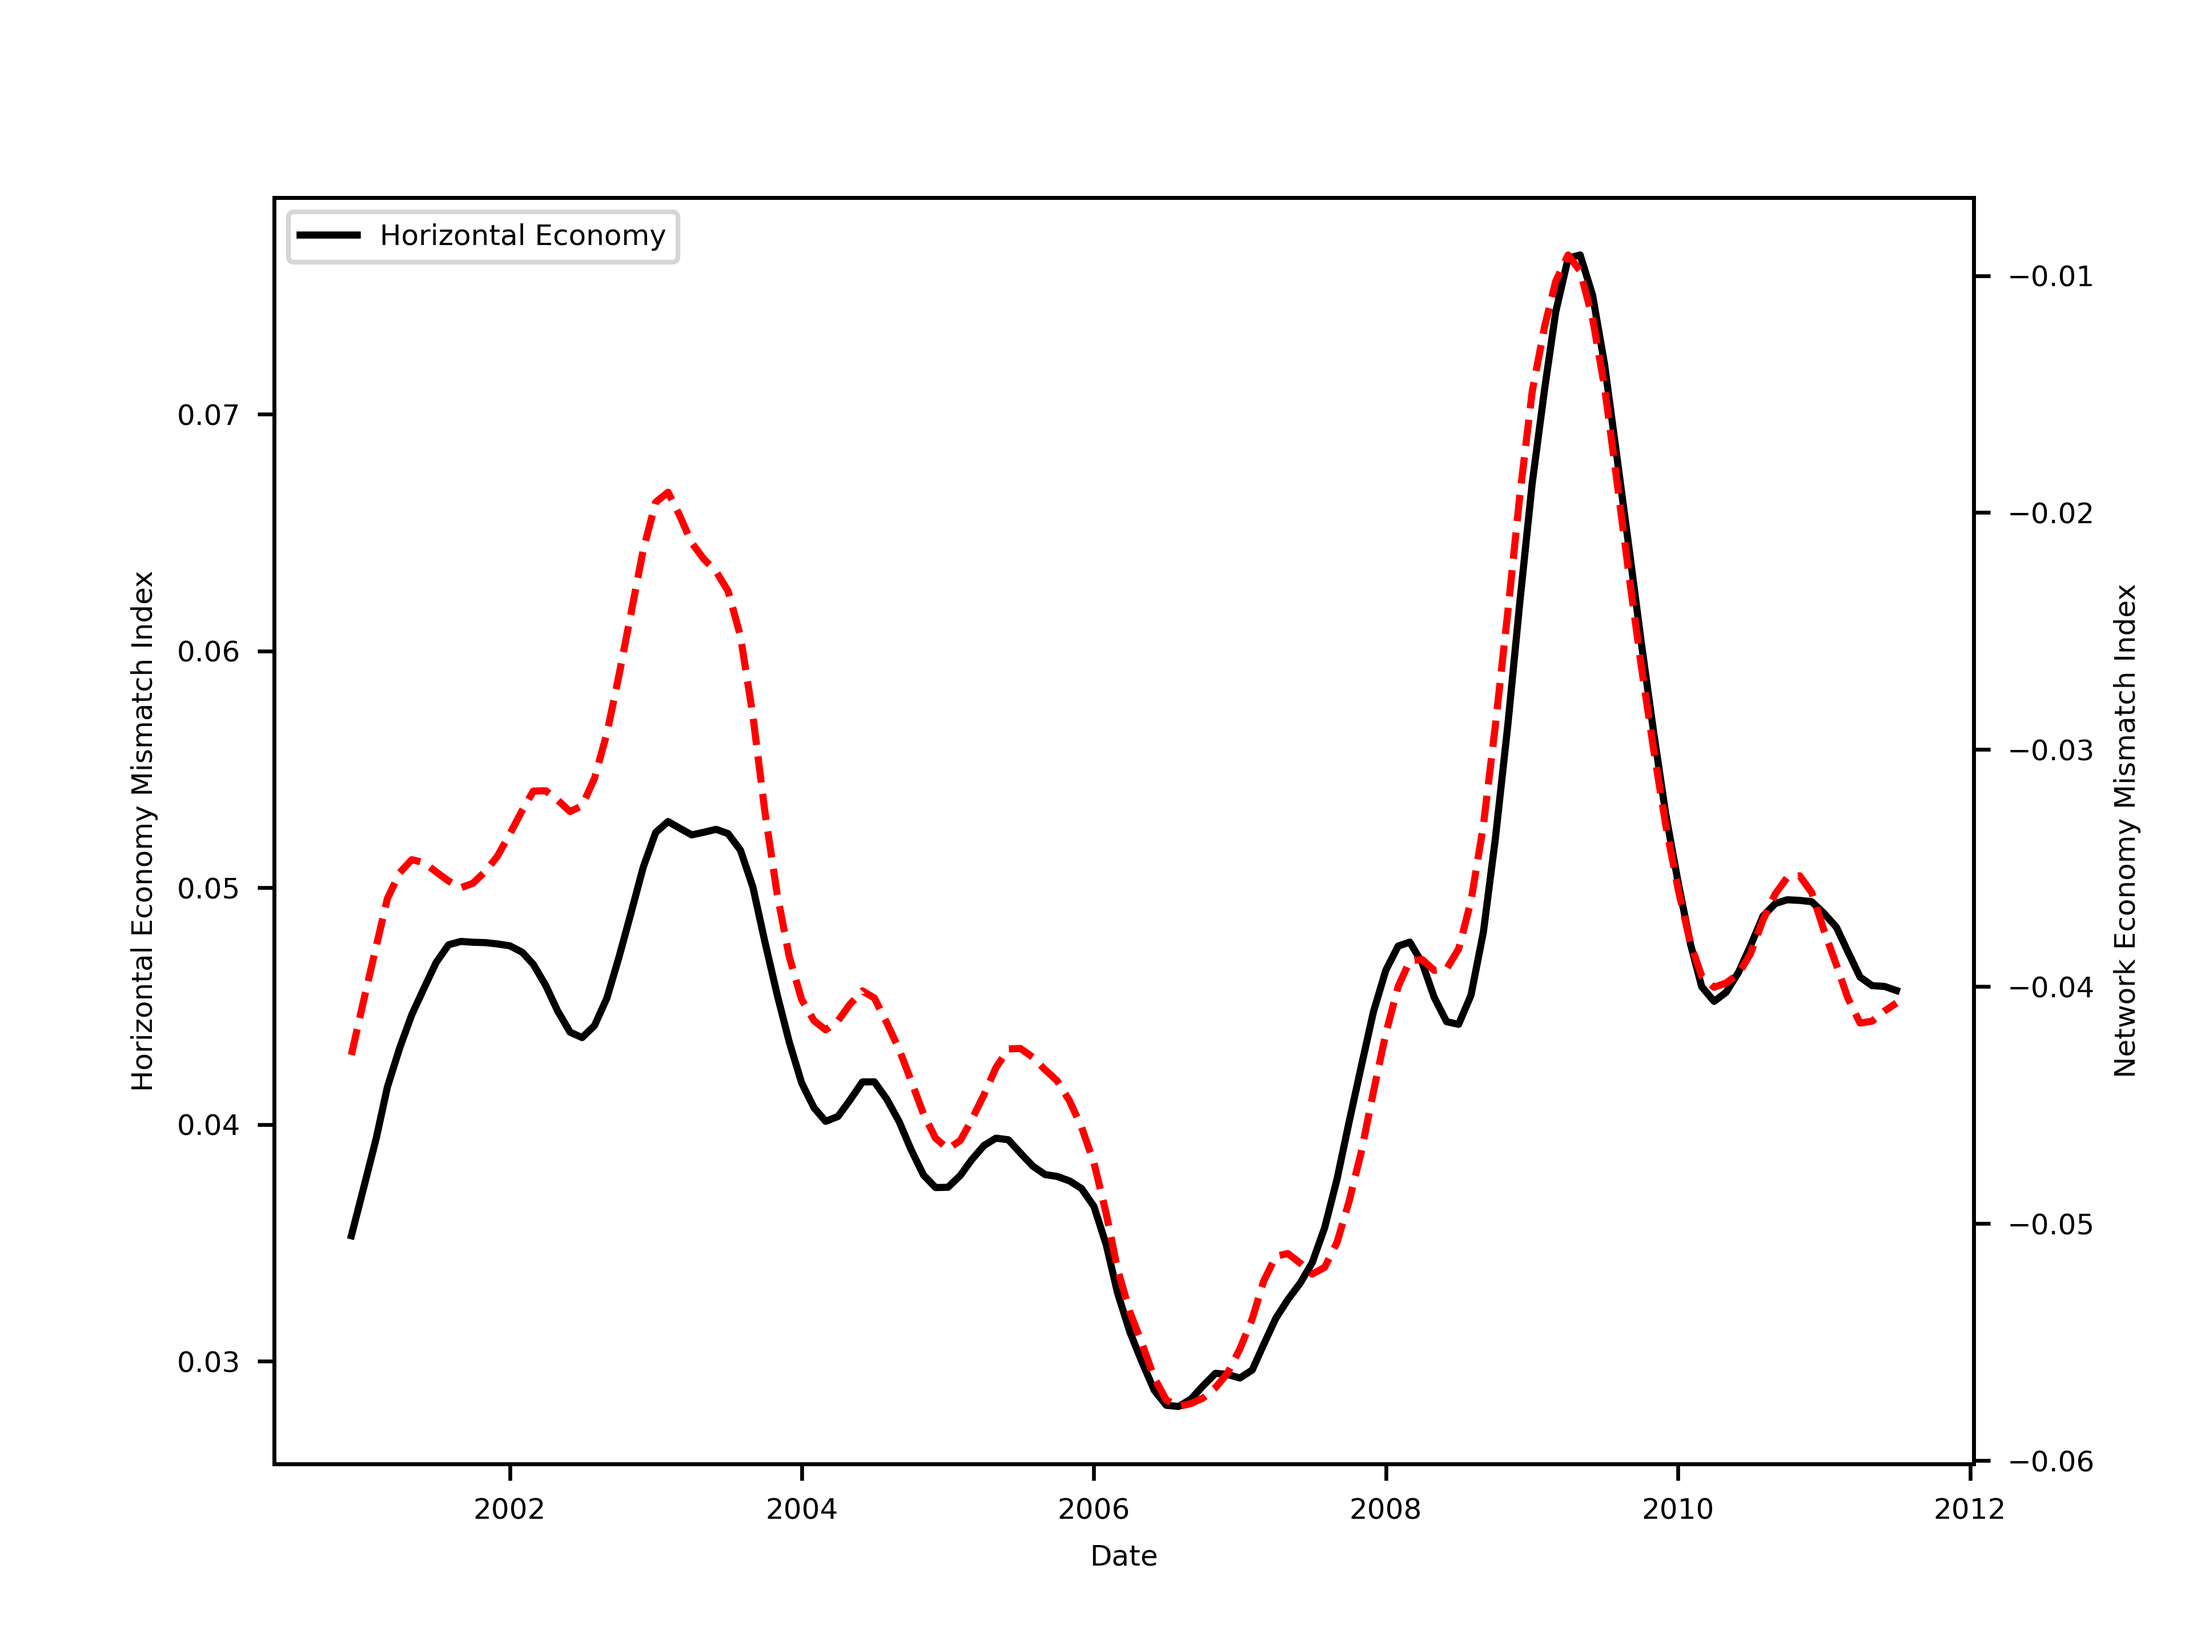
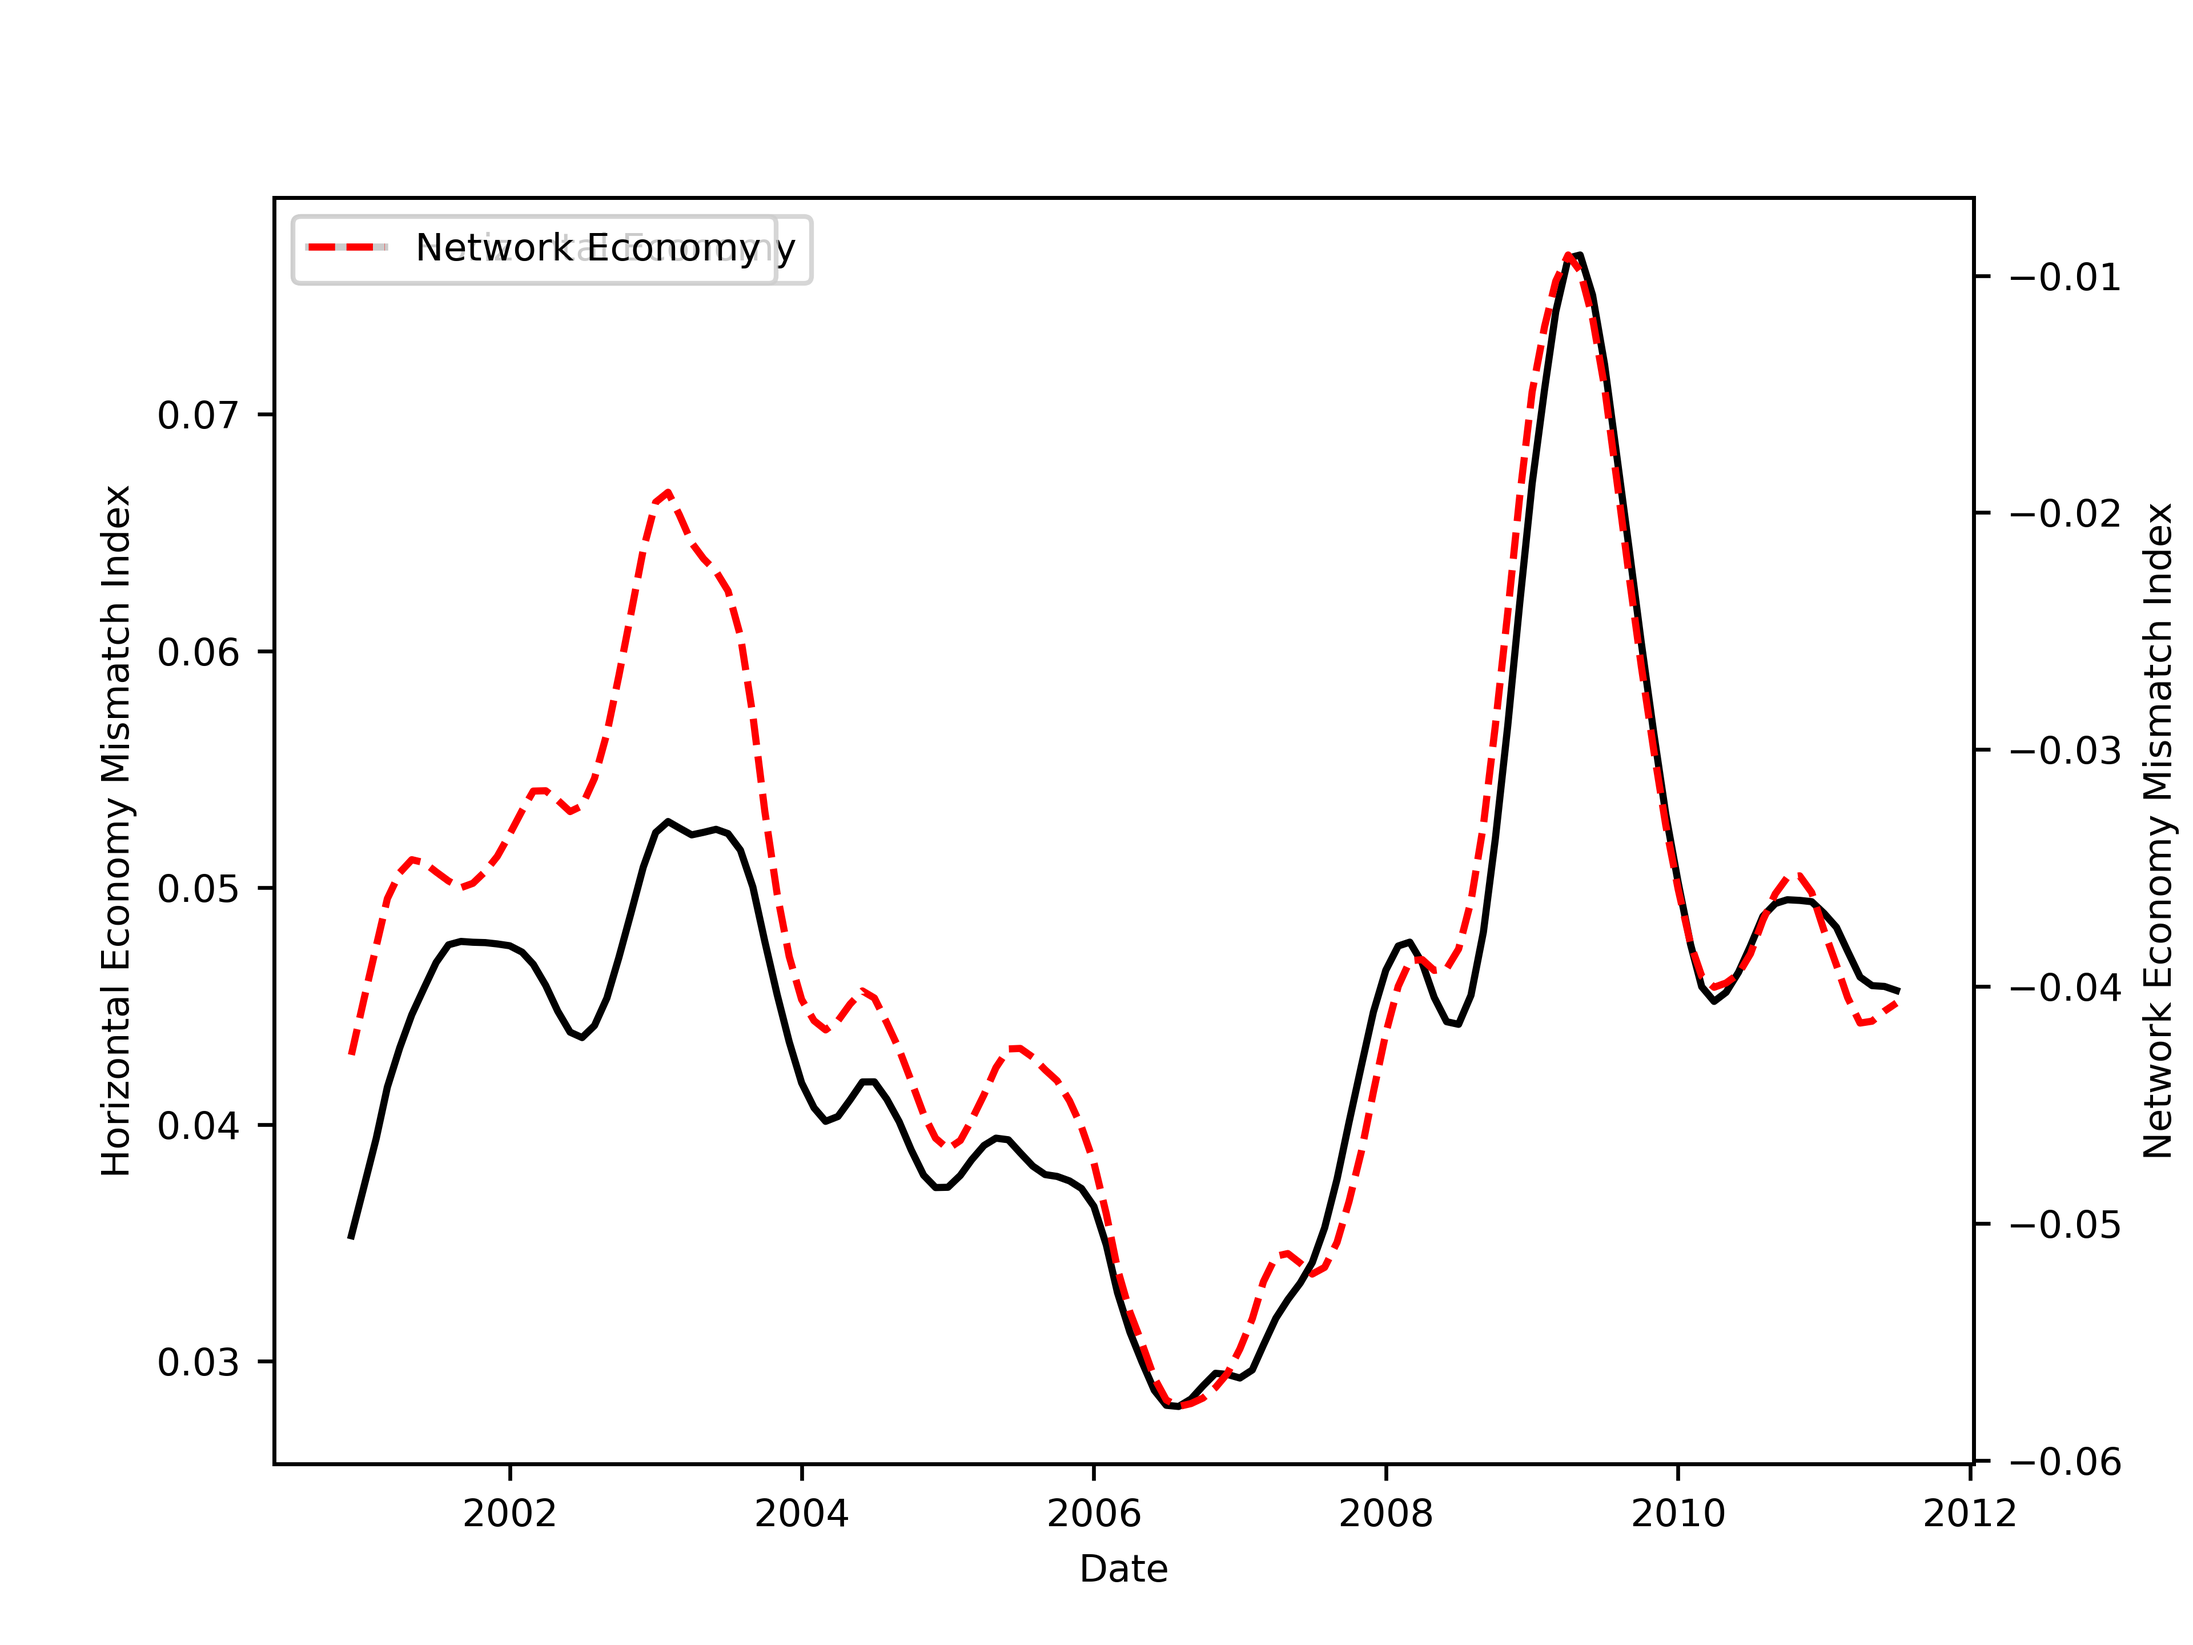
some new figures and code adjustments

diff --git a/code/functions/optimal_unemployment.py b/code/functions/optimal_unemployment.py
@@ -173,43 +173,38 @@ class mismatch_estimation:
         plt.savefig(self.param['outpath'] + fname + '_sectoral_mismatch_index.png')
 
         #scatter plots of lambda, alpha,lambda*alpha, e with v, phi
-        self.v_scatter, ax = plt.subplots(2,2,dpi=dpi)
-        plt.rcParams['font.size'] = '6'
-        ax[0,0].plot(self.input.v,np.tile(self.param['λ'],self.input.date.unique().shape[0]),'o')
-        ax[0,0].set_ylabel('λ')
-        ax[0,0].set_xlabel('v')
-        ax[0,1].plot(self.input.v,np.tile(self.param['α'],self.input.date.unique().shape[0]),'o')
-        ax[0,1].set_ylabel('α')
-        ax[0,1].set_xlabel('v')
-        ax[1,0].plot(self.input.v,np.tile(self.param['λ']*self.param['α'],self.input.date.unique().shape[0]),'o')
-        ax[1,0].set_ylabel('λα')
-        ax[1,0].set_xlabel('v')
-        ax[1,1].plot(self.input.v,np.tile(self.param['e'],self.input.date.unique().shape[0]),'o')
-        ax[1,1].set_ylabel('e')
-        ax[1,1].set_xlabel('v')
-        plt.savefig(self.param['outpath'] + fname + '_v_sectoral_scatter.png')
+        self.sectoral_scatter(self.input.v,'v',fname+'_v',dpi)
+        self.sectoral_scatter(np.tile(self.param['φ'],self.input.date.unique().shape[0]),'φ',fname+'_phi',dpi)
 
-        self.φ_scatter, ax = plt.subplots(2,2,dpi=dpi)
+    def sectoral_scatter(self,x,xlab,fname,dpi):
+        self.scatter, ax = plt.subplots(2,2,dpi=dpi)
         plt.rcParams['font.size'] = '6'
-        ax[0,0].plot(self.param['φ'],self.param['λ'],'o')
+        ax[0,0].plot(x,np.tile(self.param['λ'],self.input.date.unique().shape[0]),'o')
+        m,b = np.polyfit(x, np.tile(self.param['λ'],self.input.date.unique().shape[0]), 1)
+        ax[0,0].plot(x,m*x+b,":r")
         ax[0,0].set_ylabel('λ')
-        ax[0,0].set_xlabel('φ')
-        ax[0,1].plot(self.param['φ'],self.param['α'],'o')
+        ax[0,0].set_xlabel(xlab)
+        ax[0,1].plot(x,np.tile(self.param['α'],self.input.date.unique().shape[0]),'o')
+        m,b = np.polyfit(x, np.tile(self.param['α'],self.input.date.unique().shape[0]), 1)
+        ax[0,1].plot(x,m*x+b,":r")
         ax[0,1].set_ylabel('α')
-        ax[0,1].set_xlabel('φ')
-        ax[1,0].plot(self.param['φ'],self.param['λ']*self.param['α'],'o')
+        ax[0,1].set_xlabel(xlab)
+        ax[1,0].plot(x,np.tile(self.param['λ']*self.param['α'],self.input.date.unique().shape[0]),'o')
+        m,b = np.polyfit(x, np.tile(self.param['λ']*self.param['α'],self.input.date.unique().shape[0]), 1)
+        ax[1,0].plot(x,m*x+b,":r")
         ax[1,0].set_ylabel('λα')
-        ax[1,0].set_xlabel('φ')
-        ax[1,1].plot(self.param['φ'],self.param['e'],'o')
+        ax[1,0].set_xlabel(xlab)
+        ax[1,1].plot(x,self.input.e,'o')
+        m,b = np.polyfit(x, self.input.e, 1)
+        ax[1,1].plot(x,m*x+b,":r")
         ax[1,1].set_ylabel('e')
-        ax[1,1].set_xlabel('φ')
-        plt.savefig(self.param['outpath'] + fname + '_phi_sectoral_scatter.png')
-
+        ax[1,1].set_xlabel(xlab)
+        plt.savefig(self.param['outpath'] + fname + '_sectoral_scatter.png')
+    
     def social_welfare(self):
         #self.Y     = 
         #self.Ystar = 
         return
-
 
 # Filtering functions
 

diff --git a/code/main.py b/code/main.py
@@ -43,8 +43,21 @@ networks_monthly = mismatch_estimation(dfLabor_market_monthly,param_networks,gue
 networks_monthly.mHP(10,'networks_monthly',600)
 networks_monthly.sector_level('networks_monthly',600)
 
+# Constant λα, different e across industries
+param_cλα = {'A':A,'φ':φ,'λ':np.ones_like(λ),'α':np.ones_like(α),'θ':θ,'η':η,'mfunc':m_cd,'mufunc':mu_cd,'Lfunc':Lstar,'objective':ustar_objective}
+constantλα_monthly = mismatch_estimation(dfLabor_market_monthly,param_cλα,guessrange=0.01,ntrue=2,tol=1e-8)
+constantλα_monthly.mHP(10,'constantλα_monthly',600)
+
+# Constant e, different λα across industries
+param_ce = {'A':A,'φ':φ,'λ':λ,'α':α,'θ':θ,'η':η,'mfunc':m_cd,'mufunc':mu_cd,'Lfunc':Lstar,'objective':ustar_objective}
+dfLabor_market_monthly_constant_e   = dfLabor_market_monthly.copy(deep=True)
+dfLabor_market_monthly_constant_e.e = dfLabor_market_monthly.e.mean() 
+constante_monthly = mismatch_estimation(dfLabor_market_monthly_constant_e,param_cλα,guessrange=0.01,ntrue=2,tol=1e-8)
+constante_monthly.mHP(10,'constante_monthly',600)
+
 # Figures 
 fig_aggregate_mismatch, ax = plt.subplots(1,1,dpi=600)
+plt.rcParams['font.size'] = '8'
 ax.plot(sahin_monthly.output.index,sahin_monthly.output.mismatch_trend,'-k',label='Horizontal Economy')
 ax.plot(networks_monthly.output.index,networks_monthly.output.mismatch_trend,'--r',label='Network Economy')
 ax.set_xlabel('Date')
@@ -53,6 +66,7 @@ ax.legend()
 plt.savefig('code/output/mismatch_index_comparison.png')
 
 fig_aggregate_mismatch_2ax, ax1 = plt.subplots(1,1,dpi=600)
+plt.rcParams['font.size'] = '8'
 ax1.plot(sahin_monthly.output.index,sahin_monthly.output.mismatch_trend,'-k',label='Horizontal Economy')
 ax1.set_xlabel('Date')
 ax1.set_ylabel('Horizontal Economy Mismatch Index')
@@ -63,5 +77,25 @@ ax2.set_ylabel('Network Economy Mismatch Index')
 ax1.legend()
 ax2.legend()
 plt.savefig('code/output/mismatch_index_comparison_2ax.png')
+
+fig_network_mismatch_decomp, ax = plt.subplots(1,1,dpi=600)
+plt.rcParams['font.size'] = '8'
+ax.plot(networks_monthly.output.index,networks_monthly.output.mismatch_trend,'-k',label='Network Economy')
+ax.plot(constantλα_monthly.output.index,constantλα_monthly.output.mismatch_trend,'--r',label='Constant λα Across Sectors')
+ax.plot(constante_monthly.output.index,constante_monthly.output.mismatch_trend,'--b',label='Constant Existing Employment Across Sectors')
+ax.set_xlabel('Date')
+ax.set_ylabel('Mismatch Index')
+ax.legend()
+plt.savefig('code/output/network_mismatch_decomp.png')
+
+fig_aggregate_mismatch_constante, ax = plt.subplots(1,1,dpi=600)
+plt.rcParams['font.size'] = '8'
+ax.plot(sahin_monthly.output.index,sahin_monthly.output.mismatch_trend,'-k',label='Horizontal Economy')
+ax.plot(constante_monthly.output.index,constante_monthly.output.mismatch_trend,'--r',label='Constant Existing Workers Network Economy')
+ax.set_xlabel('Date')
+ax.set_ylabel('Mismatch Index')
+ax.legend()
+plt.savefig('code/output/mismatch_index_comparison_constante.png')
+
 
 print('done')

diff --git a/code/functions/old.py b/code/functions/old.py
@@ -64,3 +64,47 @@ def root_robust(objective,v,e,φ,η,λ,α,mfunc,mufunc,Lfunc,uguess_mean=np.arra
     else:
         success = True
     return  np.mean(out_mat,axis=0), success
+
+    self.v_scatter, ax = plt.subplots(2,2,dpi=dpi)
+        plt.rcParams['font.size'] = '6'
+        ax[0,0].plot(self.input.v,np.tile(self.param['λ'],self.input.date.unique().shape[0]),'o')
+        z = np.polyfit(self.input.v, np.tile(self.param['λ'],self.input.date.unique().shape[0]), 1)
+        p = np.poly1d(z)
+        ax[0,0].plot(self.input.v,p(self.input.v),"r--")
+        ax[0,0].set_ylabel('λ')
+        ax[0,0].set_xlabel('v')
+        ax[0,1].plot(self.input.v,np.tile(self.param['α'],self.input.date.unique().shape[0]),'o')
+        z = np.polyfit(self.input.v, np.tile(self.param['α'],self.input.date.unique().shape[0]), 1)
+        p = np.poly1d(z)
+        ax[0,1].plot(self.input.v,p(self.input.v),"r--")
+        ax[0,1].set_ylabel('α')
+        ax[0,1].set_xlabel('v')
+        ax[1,0].plot(self.input.v,np.tile(self.param['λ']*self.param['α'],self.input.date.unique().shape[0]),'o')
+        z = np.polyfit(self.input.v, np.tile(self.param['λ']*self.param['α'],self.input.date.unique().shape[0]), 1)
+        p = np.poly1d(z)
+        ax[1,0].plot(self.input.v,p(self.input.v),"r--")
+        ax[1,0].set_ylabel('λα')
+        ax[1,0].set_xlabel('v')
+        ax[1,1].plot(self.input.v,self.input.e,'o')
+        z = np.polyfit(self.input.v, self.input.e, 1)
+        p = np.poly1d(z)
+        ax[1,1].plot(self.input.v,p(self.input.v),"r--")
+        ax[1,1].set_ylabel('e')
+        ax[1,1].set_xlabel('v')
+        plt.savefig(self.param['outpath'] + fname + '_v_sectoral_scatter.png')
+
+        self.φ_scatter, ax = plt.subplots(2,2,dpi=dpi)
+        plt.rcParams['font.size'] = '6'
+        ax[0,0].plot(self.param['φ'],self.param['λ'],'o')
+        ax[0,0].set_ylabel('λ')
+        ax[0,0].set_xlabel('φ')
+        ax[0,1].plot(self.param['φ'],self.param['α'],'o')
+        ax[0,1].set_ylabel('α')
+        ax[0,1].set_xlabel('φ')
+        ax[1,0].plot(self.param['φ'],self.param['λ']*self.param['α'],'o')
+        ax[1,0].set_ylabel('λα')
+        ax[1,0].set_xlabel('φ')
+        ax[1,1].plot(self.param['φ'],self.param['e'],'o')
+        ax[1,1].set_ylabel('e')
+        ax[1,1].set_xlabel('φ')
+        plt.savefig(self.param['outpath'] + fname + '_phi_sectoral_scatter.png')
